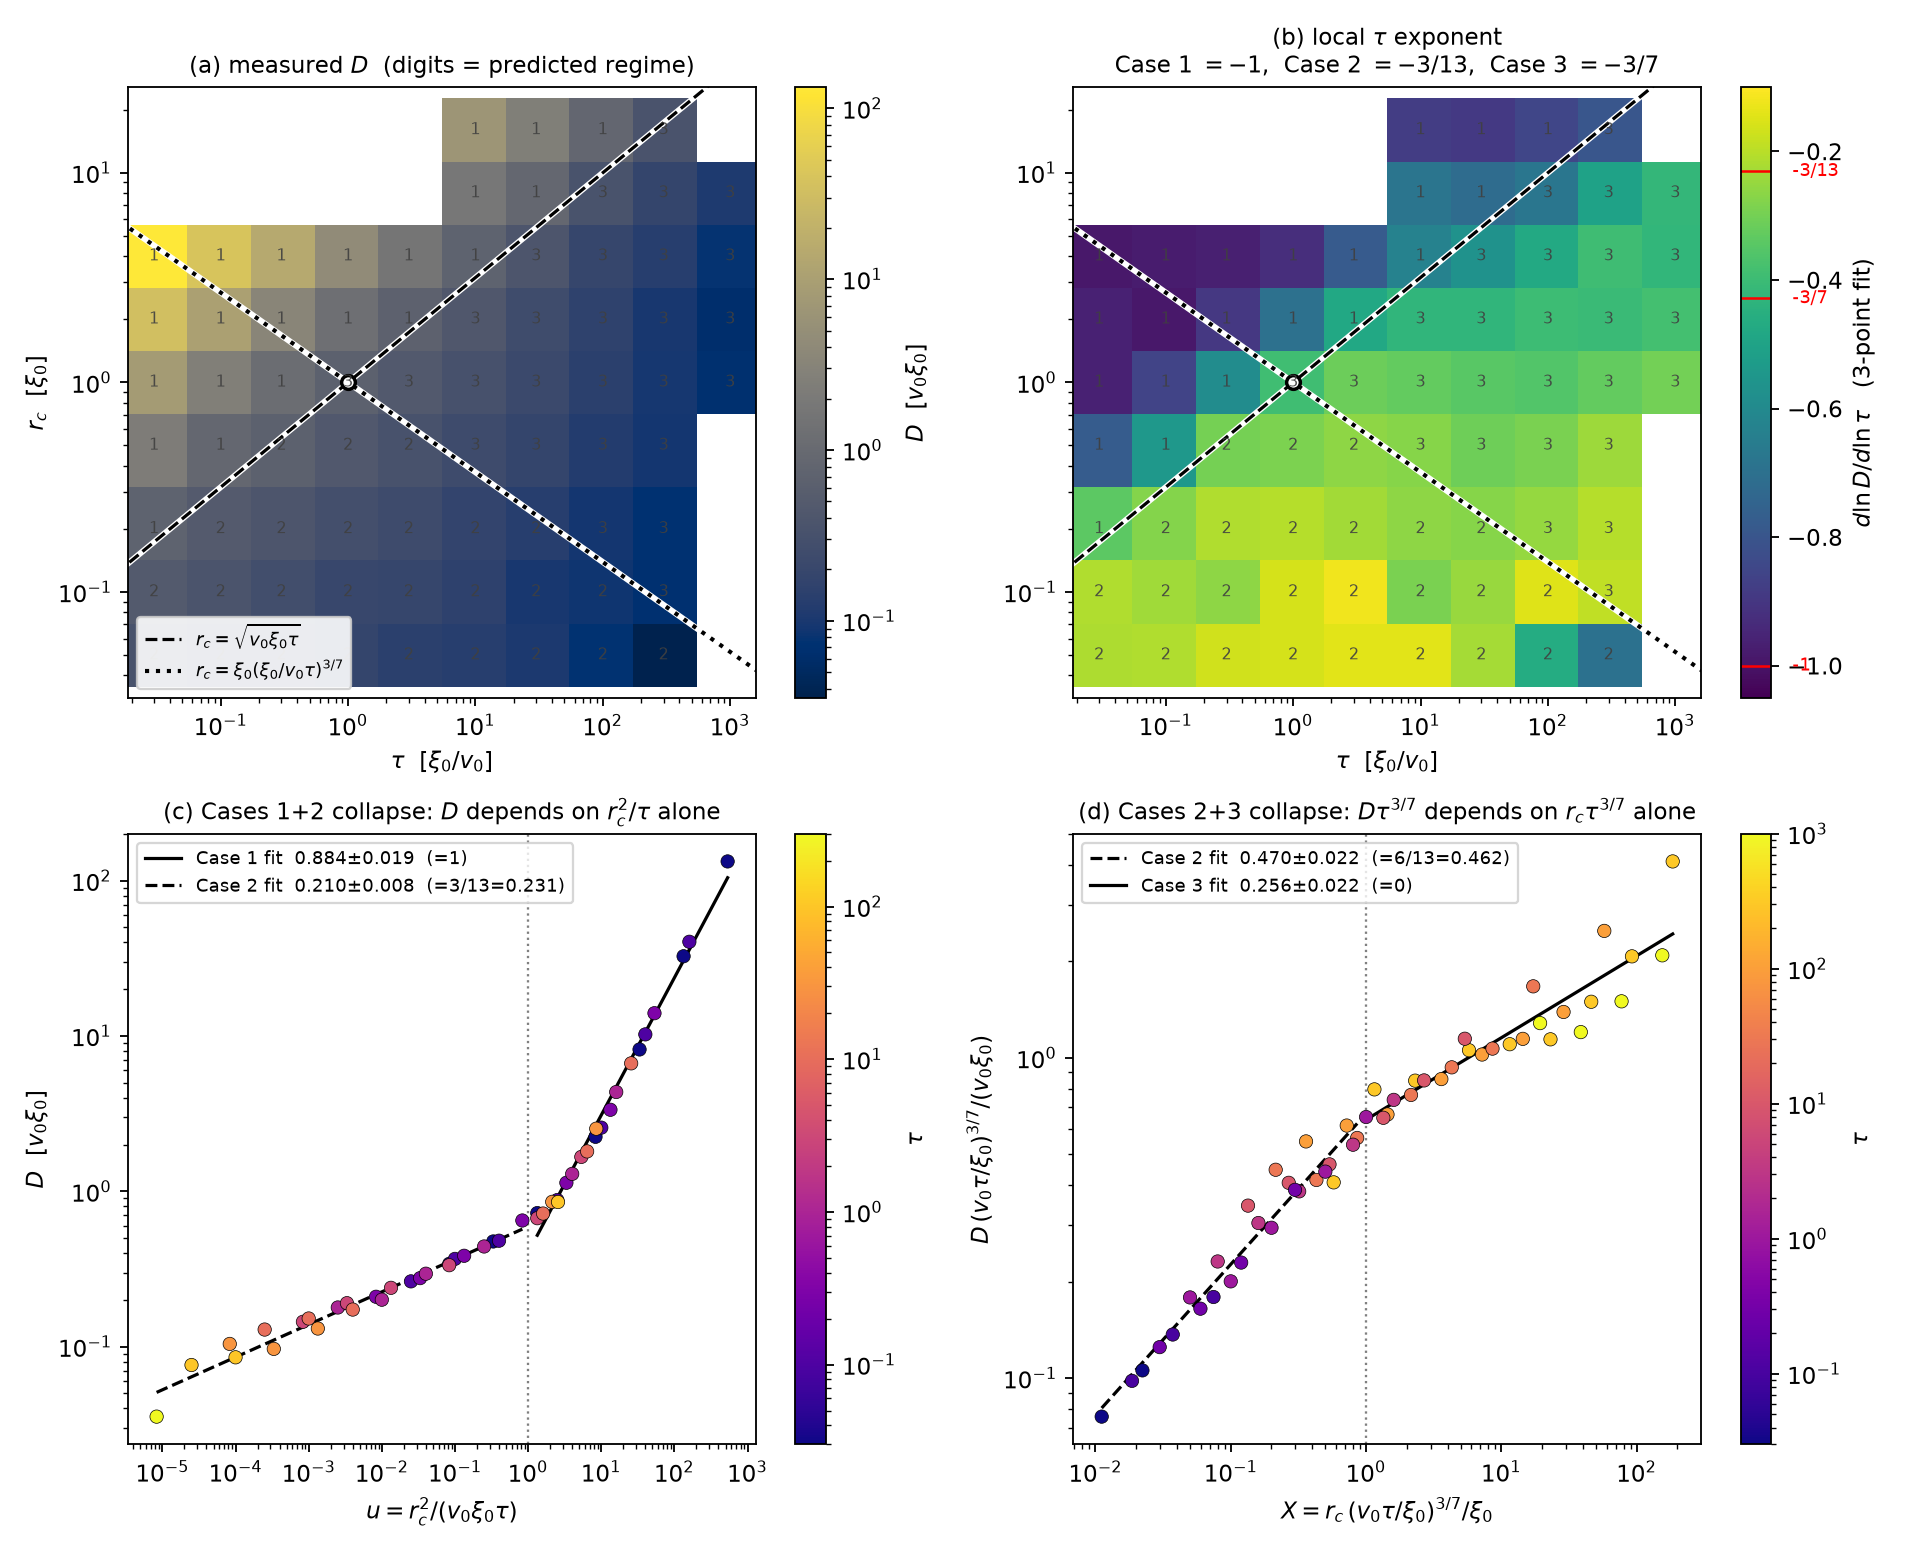
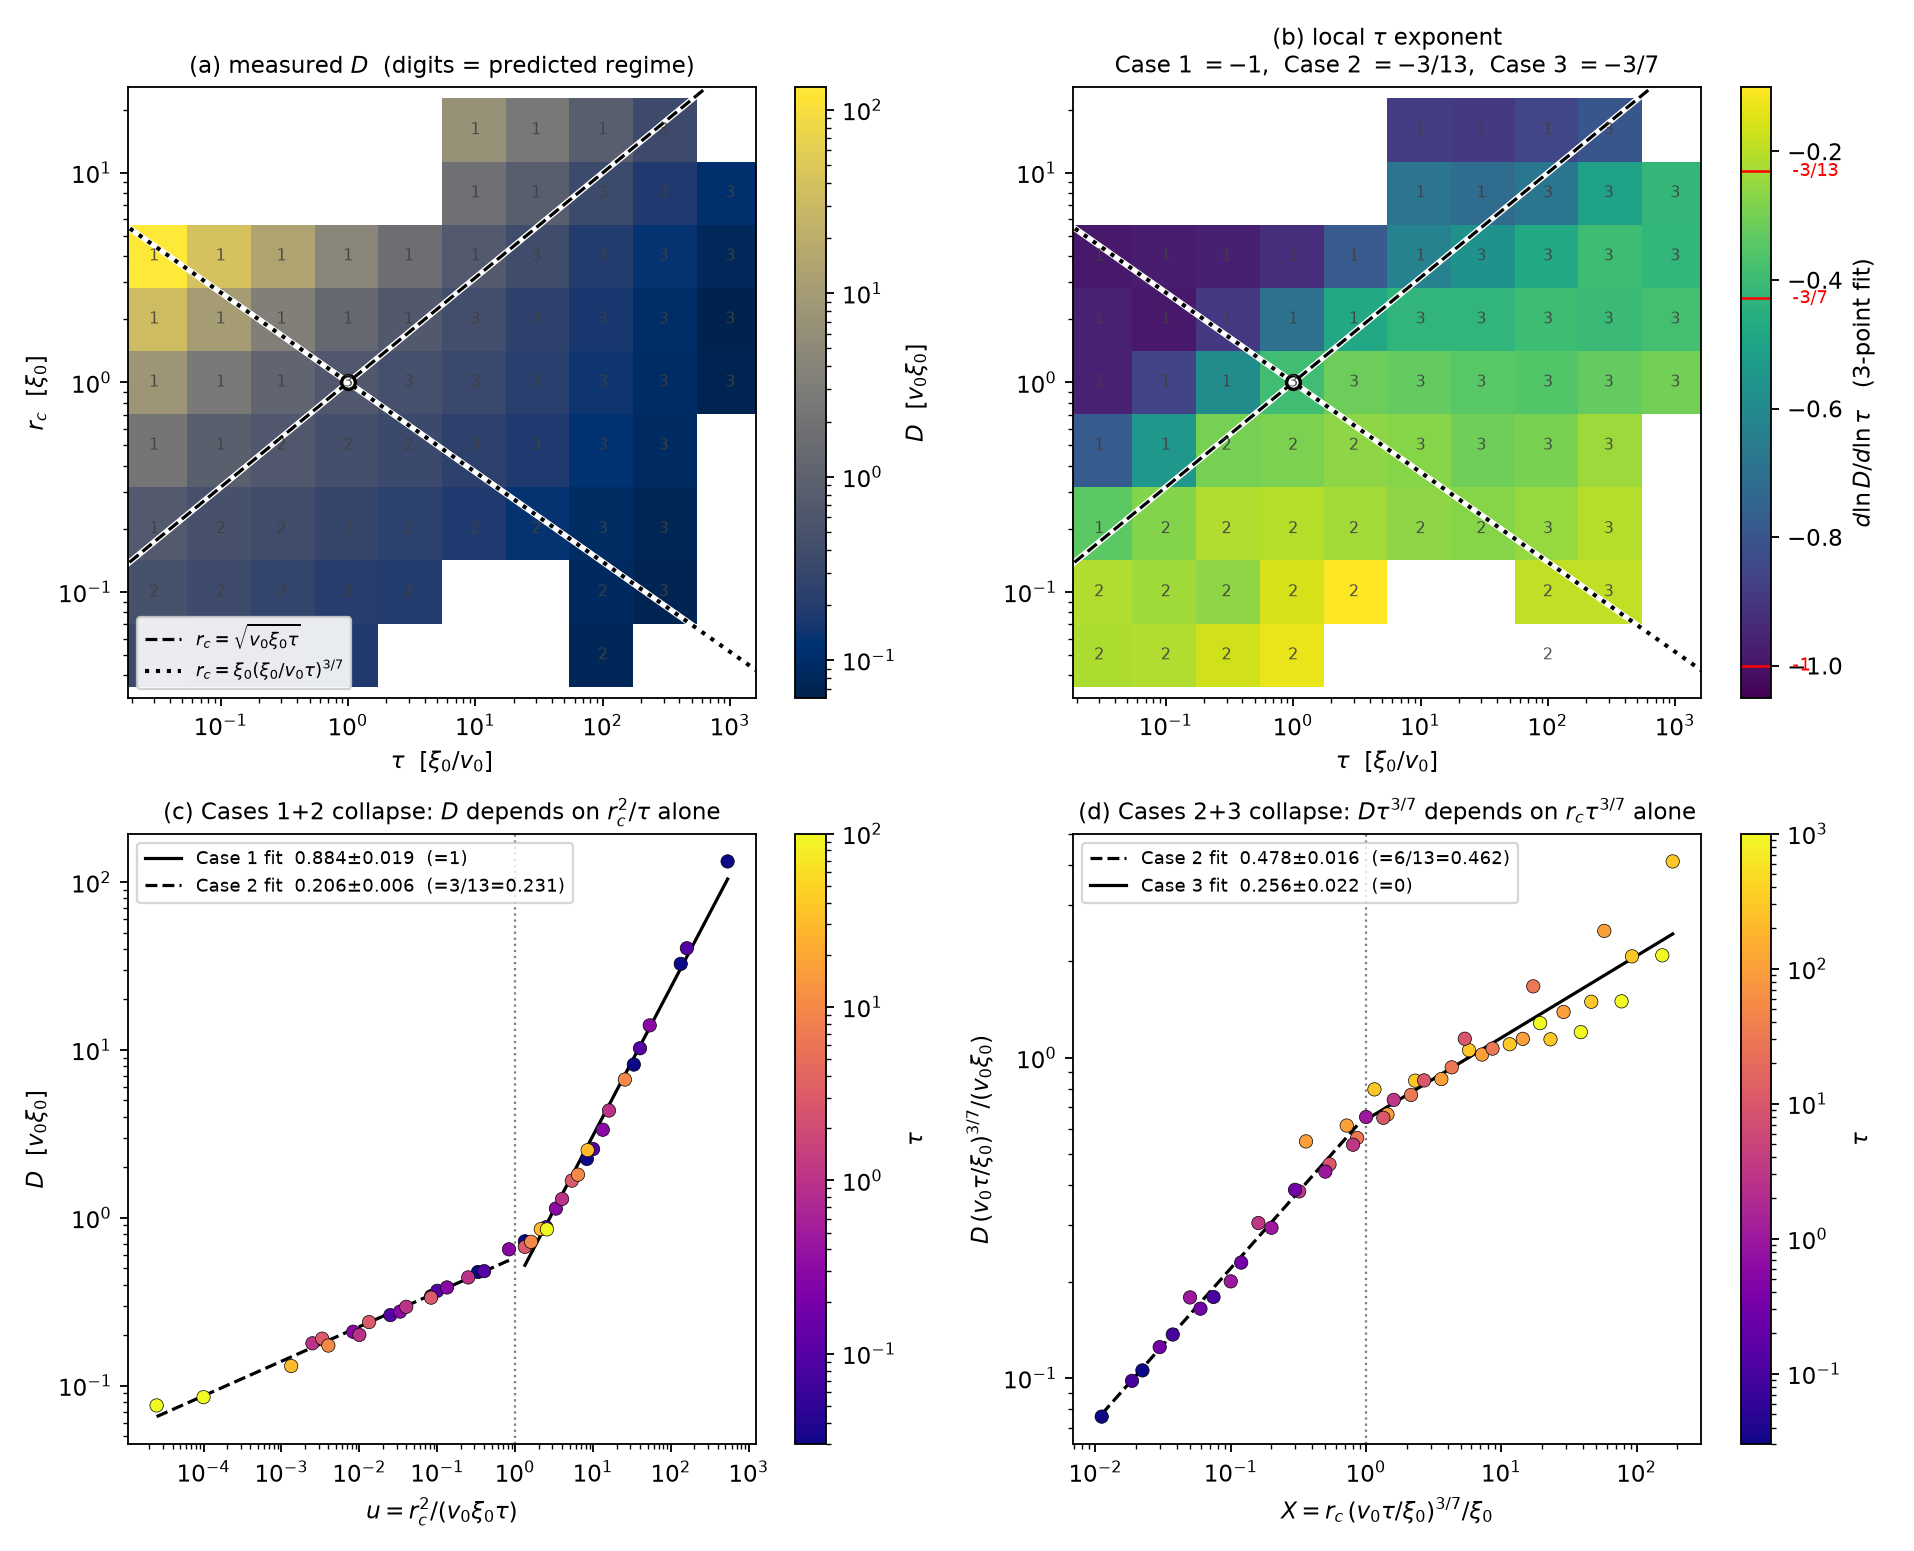
Map the (r_c, tau) plane: both boundaries confirmed, Case 3 approached not reached

diff --git a/scripts/plot_phase_diagram.py b/scripts/plot_phase_diagram.py
@@ -43,6 +43,7 @@ def merge(paths):
     tau = np.unique(np.concatenate([g["tau"] for g in grids]))
     D = np.full((rc.size, tau.size), np.nan)
     E = np.full((rc.size, tau.size), np.nan)
+    LL = np.full((rc.size, tau.size), np.nan)
     done = np.zeros(D.shape, dtype=bool)
     for g in grids:
         ii = np.searchsorted(rc, g["r_c"])
@@ -50,8 +51,9 @@ def merge(paths):
         for a, i in enumerate(ii):
             for b, j in enumerate(jj):
                 if g["done"][a, b]:
-                    D[i, j], E[i, j], done[i, j] = g["D"][a, b], g["D_err"][a, b], True
-    return rc, tau, D, E, done
+                    D[i, j], E[i, j] = g["D"][a, b], g["D_err"][a, b]
+                    LL[i, j], done[i, j] = g["loglog"][a, b], True
+    return rc, tau, D, E, LL, done
 
 
 def window_slope(logD, logx, axis, half=1):
@@ -108,13 +110,22 @@ def main():
     p = argparse.ArgumentParser()
     p.add_argument("--data", nargs="+", default=["data/grid_D.npz"])
     p.add_argument("--out", default="figures/phase_diagram.png")
+    p.add_argument("--ll-tol", type=float, default=0.15,
+                   help="drop cells whose MSD log-log slope differs from 1 by more")
+    p.add_argument("--margin", type=float, default=0.7,
+                   help="ln-distance a cell must keep from both boundaries to "
+                        "count as 'deep' inside a regime")
     args = p.parse_args()
 
-    rc, tau, D, E, done = merge(args.data)
+    rc, tau, D, E, LL, done = merge(args.data)
+    # a cell is only usable if its MSD really is diffusive over the fit window
+    bad = done & (np.abs(LL - 1.0) > args.ll_tol)
+    done = done & ~bad
     D = np.where(done, D, np.nan)
     E = np.where(done, E, np.nan)
-    print(f"{int(done.sum())}/{done.size} cells present "
-          f"({rc.size} r_c x {tau.size} tau)")
+    print(f"{int(done.sum())}/{done.size} cells usable "
+          f"({rc.size} r_c x {tau.size} tau); "
+          f"{int(bad.sum())} dropped for |MSD loglog slope - 1| > {args.ll_tol}")
 
     s_tau = window_slope(np.log(D), np.log(tau), axis=1)
     s_rc = window_slope(np.log(D), np.log(rc), axis=0)
@@ -273,6 +284,54 @@ def main():
             print(f"           <d lnD/d ln r_c> = {v.mean():+.3f} "
                   f"+- {v.std(ddof=1)/np.sqrt(v.size):.3f}  "
                   f"(n={v.size}, predicted {pr:+.3f})")
+
+    # ---- joint fits well inside each regime -------------------------------
+    ok = np.isfinite(D)
+    m1 = np.log(np.sqrt(T) / R)     # ln-distance below r_c = sqrt(tau)
+    m2 = np.log(R * T ** (3 / 7))   # ln-distance above r_c = tau^(-3/7)
+    g = args.margin
+    print(f"\njoint fit  ln D = a ln(tau) + b ln(r_c) + const,  restricted to "
+          f"cells at least e^{g:g} away from both boundaries of their regime:")
+    for c, sel, pa, pb in ((1, ok & (-m1 > g), -1.0, 2.0),
+                           (2, ok & (m1 > g) & (-m2 > g), -3 / 13, 6 / 13),
+                           (3, ok & (m1 > g) & (m2 > g), -3 / 7, 0.0)):
+        f = joint_fit(T, R, D, sel)
+        if f is None:
+            print(f"  Case {c}: only {int(sel.sum())} usable cells")
+            continue
+        n, a, ea, b, eb = f
+        print(f"  Case {c}: n={n:2d}   a = {a:+.3f} +- {ea:.3f} (pred {pa:+.3f})"
+              f"   b = {b:+.3f} +- {eb:.3f} (pred {pb:+.3f})")
+
+    # how the Case-3 exponents converge as the cells move deeper in
+    print("\nCase 3 approach to the asymptote (both margins > cut):")
+    for cut in (0.0, 0.7, 1.2, 1.8):
+        f = joint_fit(T, R, D, ok & (m1 > cut) & (m2 > cut))
+        if f is None:
+            continue
+        n, a, ea, b, eb = f
+        print(f"  margin > {cut:.1f}:  n={n:2d}   tau^({a:+.3f}+-{ea:.3f})"
+              f"  r_c^({b:+.3f}+-{eb:.3f})    [predicted -0.429, 0]")
+    print("\nCase 3 vs the smallest tau retained:")
+    for tmin in (1.0, 30.0, 100.0, 300.0):
+        f = joint_fit(T, R, D, ok & (m1 > g) & (m2 > g) & (T >= tmin))
+        if f is None:
+            continue
+        n, a, ea, b, eb = f
+        print(f"  tau >= {tmin:5g}:  n={n:2d}   tau^({a:+.3f}+-{ea:.3f})"
+              f"  r_c^({b:+.3f}+-{eb:.3f})")
+
+
+def joint_fit(T, R, D, sel):
+    """Least-squares  ln D = a ln tau + b ln r_c + c  over the selected cells."""
+    n = int(sel.sum())
+    if n < 4:
+        return None
+    X = np.c_[np.log(T[sel]), np.log(R[sel]), np.ones(n)]
+    beta = np.linalg.lstsq(X, np.log(D[sel]), rcond=None)[0]
+    res = np.log(D[sel]) - X @ beta
+    cov = np.linalg.inv(X.T @ X) * (res ** 2).sum() / (n - 3)
+    return n, beta[0], np.sqrt(cov[0, 0]), beta[1], np.sqrt(cov[1, 1])
 
 
 if __name__ == "__main__":

diff --git a/README.md b/README.md
@@ -244,6 +244,101 @@ The percolation scaling quoted above uses only the standard 2-D exponents (hull
 dimension 7/4, `nu = 4/3`); the notes' own section-6 derivation is still excluded
 from `mrdiff/theory.py` on the grounds that its argument is unsound.
 
+## Mapping the regimes: a sweep over the (r_c, tau) plane
+
+`scripts/run_grid.py` measures `D` on a grid of `(r_c, tau)`, one cell at a
+time, saving after every cell so a run can be interrupted and resumed. The map
+below merges five such runs on one fixed landscape (`L = 400 xi_0`, `xi_0 = 1`,
+`Gamma = 1/sqrt(2)` so `v_0 = 1`), 75 usable cells covering
+
+```
+r_c  = 0.05 ... 16 xi_0        (2.5 decades)
+tau  = 0.03 ... 1000 xi_0/v_0  (4.5 decades)
+```
+
+with 192 walkers per cell (768 for the interior), Poissonian collisions and
+loop detection. Six cells are dropped because their MSD is still sub-diffusive
+in the fit window (`|d ln MSD/d ln t - 1| > 0.15`), all of them in the
+small-`r_c`, large-`tau` corner where randomising the contour level takes many
+kicks.
+
+    python scripts/run_grid.py --out data/grid_D.npz
+    python scripts/plot_phase_diagram.py --data data/grid_*.npz
+
+### The boundaries come out of the data without fitting
+
+Setting the three predicted laws equal pairwise gives, with `xi_0 = v_0 = 1`,
+
+| boundary | locus | |
+|---|---|---|
+| Case 1 / Case 2 | `r_c = sqrt(v_0 xi_0 tau)` | `u = r_c^2/(v_0 xi_0 tau) = 1` |
+| Case 2 / Case 3 | `r_c = xi_0 (xi_0/v_0 tau)^(3/7)` | `X = r_c (v_0 tau/xi_0)^(3/7)/xi_0 = 1` |
+
+which cross at the triple point `(tau, r_c) = (1, 1)`. Both are visible
+directly as kinks in a one-variable collapse:
+
+* Cases 1 and 2 both make `D` a function of `u = r_c^2/(v_0 xi_0 tau)` alone.
+  Every non-Case-3 cell collapses onto one curve over four decades in `u`, with
+  a sharp break at `u = 1`.
+* Cases 2 and 3 both make `D (v_0 tau/xi_0)^(3/7)` a function of
+  `X = r_c (v_0 tau/xi_0)^(3/7)` alone. Every non-Case-1 cell collapses over
+  four decades in `X`, with a break at `X = 1`.
+
+Nothing in either collapse is fitted: the scaling variables and the location of
+the kinks are the prediction.
+
+### Exponents
+
+Joint fits of `ln D = a ln(tau) + b ln(r_c) + const` over the cells that stay at
+least a factor `e` away from both boundaries of their regime:
+
+| regime | `a` measured | predicted | `b` measured | predicted |
+|---|---|---|---|---|
+| Case 1 | `-0.964 +- 0.009` | `-1` | `+1.958 +- 0.023` | `+2` |
+| Case 2 | `-0.185 +- 0.008` | `-3/13 = -0.231` | `+0.382 +- 0.028` | `+6/13 = +0.462` |
+| Case 3 | `-0.350 +- 0.016` | `-3/7 = -0.429` | `+0.219 +- 0.022` | `0` |
+
+Case 1 is exact to a couple of percent. Case 2 is 20% shallow in both exponents
+but with the ratio `b/a = -2.06` pinned to `-2`, which is the real content of
+the regime: `D` depends on `r_c` and `tau` only through `r_c^2/tau`. The
+collapse fit, which uses all 42 non-Case-3 cells rather than the deep-interior
+subset, gives `0.206 +- 0.006` against `3/13 = 0.231`, and a dedicated `tau`
+sweep at fixed `r_c = 0.1` gave `-0.232 +- 0.009` over 2.7 decades — so `-3/13`
+is right and the deep-interior subset here is biased by sitting at small `tau`,
+where `v_0 tau` is not yet large compared with `xi_0`.
+
+### Case 3 is approached, not reached
+
+Case 3 is the only place where the map disagrees with the prediction at the
+level of an exponent, and both of its exponents drift toward the predicted
+values as the cells move deeper into the regime:
+
+| cells kept | `d ln D/d ln tau` | `d ln D/d ln r_c` |
+|---|---|---|
+| margin `> e^0.0` | `-0.351 +- 0.022` | `+0.285 +- 0.028` |
+| margin `> e^0.7` | `-0.350 +- 0.016` | `+0.219 +- 0.022` |
+| margin `> e^1.2` | `-0.353 +- 0.026` | `+0.201 +- 0.035` |
+| margin `> e^1.8` | `-0.341 +- 0.039` | `+0.100 +- 0.066` |
+| margin `> e^0.7`, `tau >= 300` | `-0.410 +- 0.066` | `+0.223 +- 0.034` |
+
+The `r_c` exponent falls monotonically toward `0` as the margin grows, and is
+consistent with `0` at the deepest cut. The `tau` exponent moves toward `-3/7`
+only when the small-`tau` cells are dropped; row by row at fixed `r_c` it
+steepens with `r_c` as well — `-0.326 +- 0.057` at `r_c = 0.5`, `-0.342 +-
+0.028` at `r_c = 1`, `-0.420 +- 0.025` at `r_c = 2` — matching the
+`-0.427 +- 0.021` found earlier from a dedicated sweep at `r_c = 2` over
+`tau = 100 ... 1000`.
+
+This is the same finite-size effect already measured directly on the contour
+statistics: `-3/7` follows from `(2 - a)/d_h - 1` with the tail exponent
+`a = 1` and `d_h = 7/4`, and the *measured* `a` only creeps up to `0.93` on the
+largest box, while grid-labelled contours give `d_h = 1.633 +- 0.009` rather
+than `1.75`. Putting the measured values in gives `-0.39`, between the observed
+`-0.35` and the asymptotic `-0.43`. The regime is real and its trend is right;
+the accessible `tau` is not large enough to sit on the asymptote.
+
+![phase diagram](figures/phase_diagram.png)
+
 ## Modelling choices worth knowing about
 
 * **The hop.** As specified, a collision moves the guiding centre by exactly
